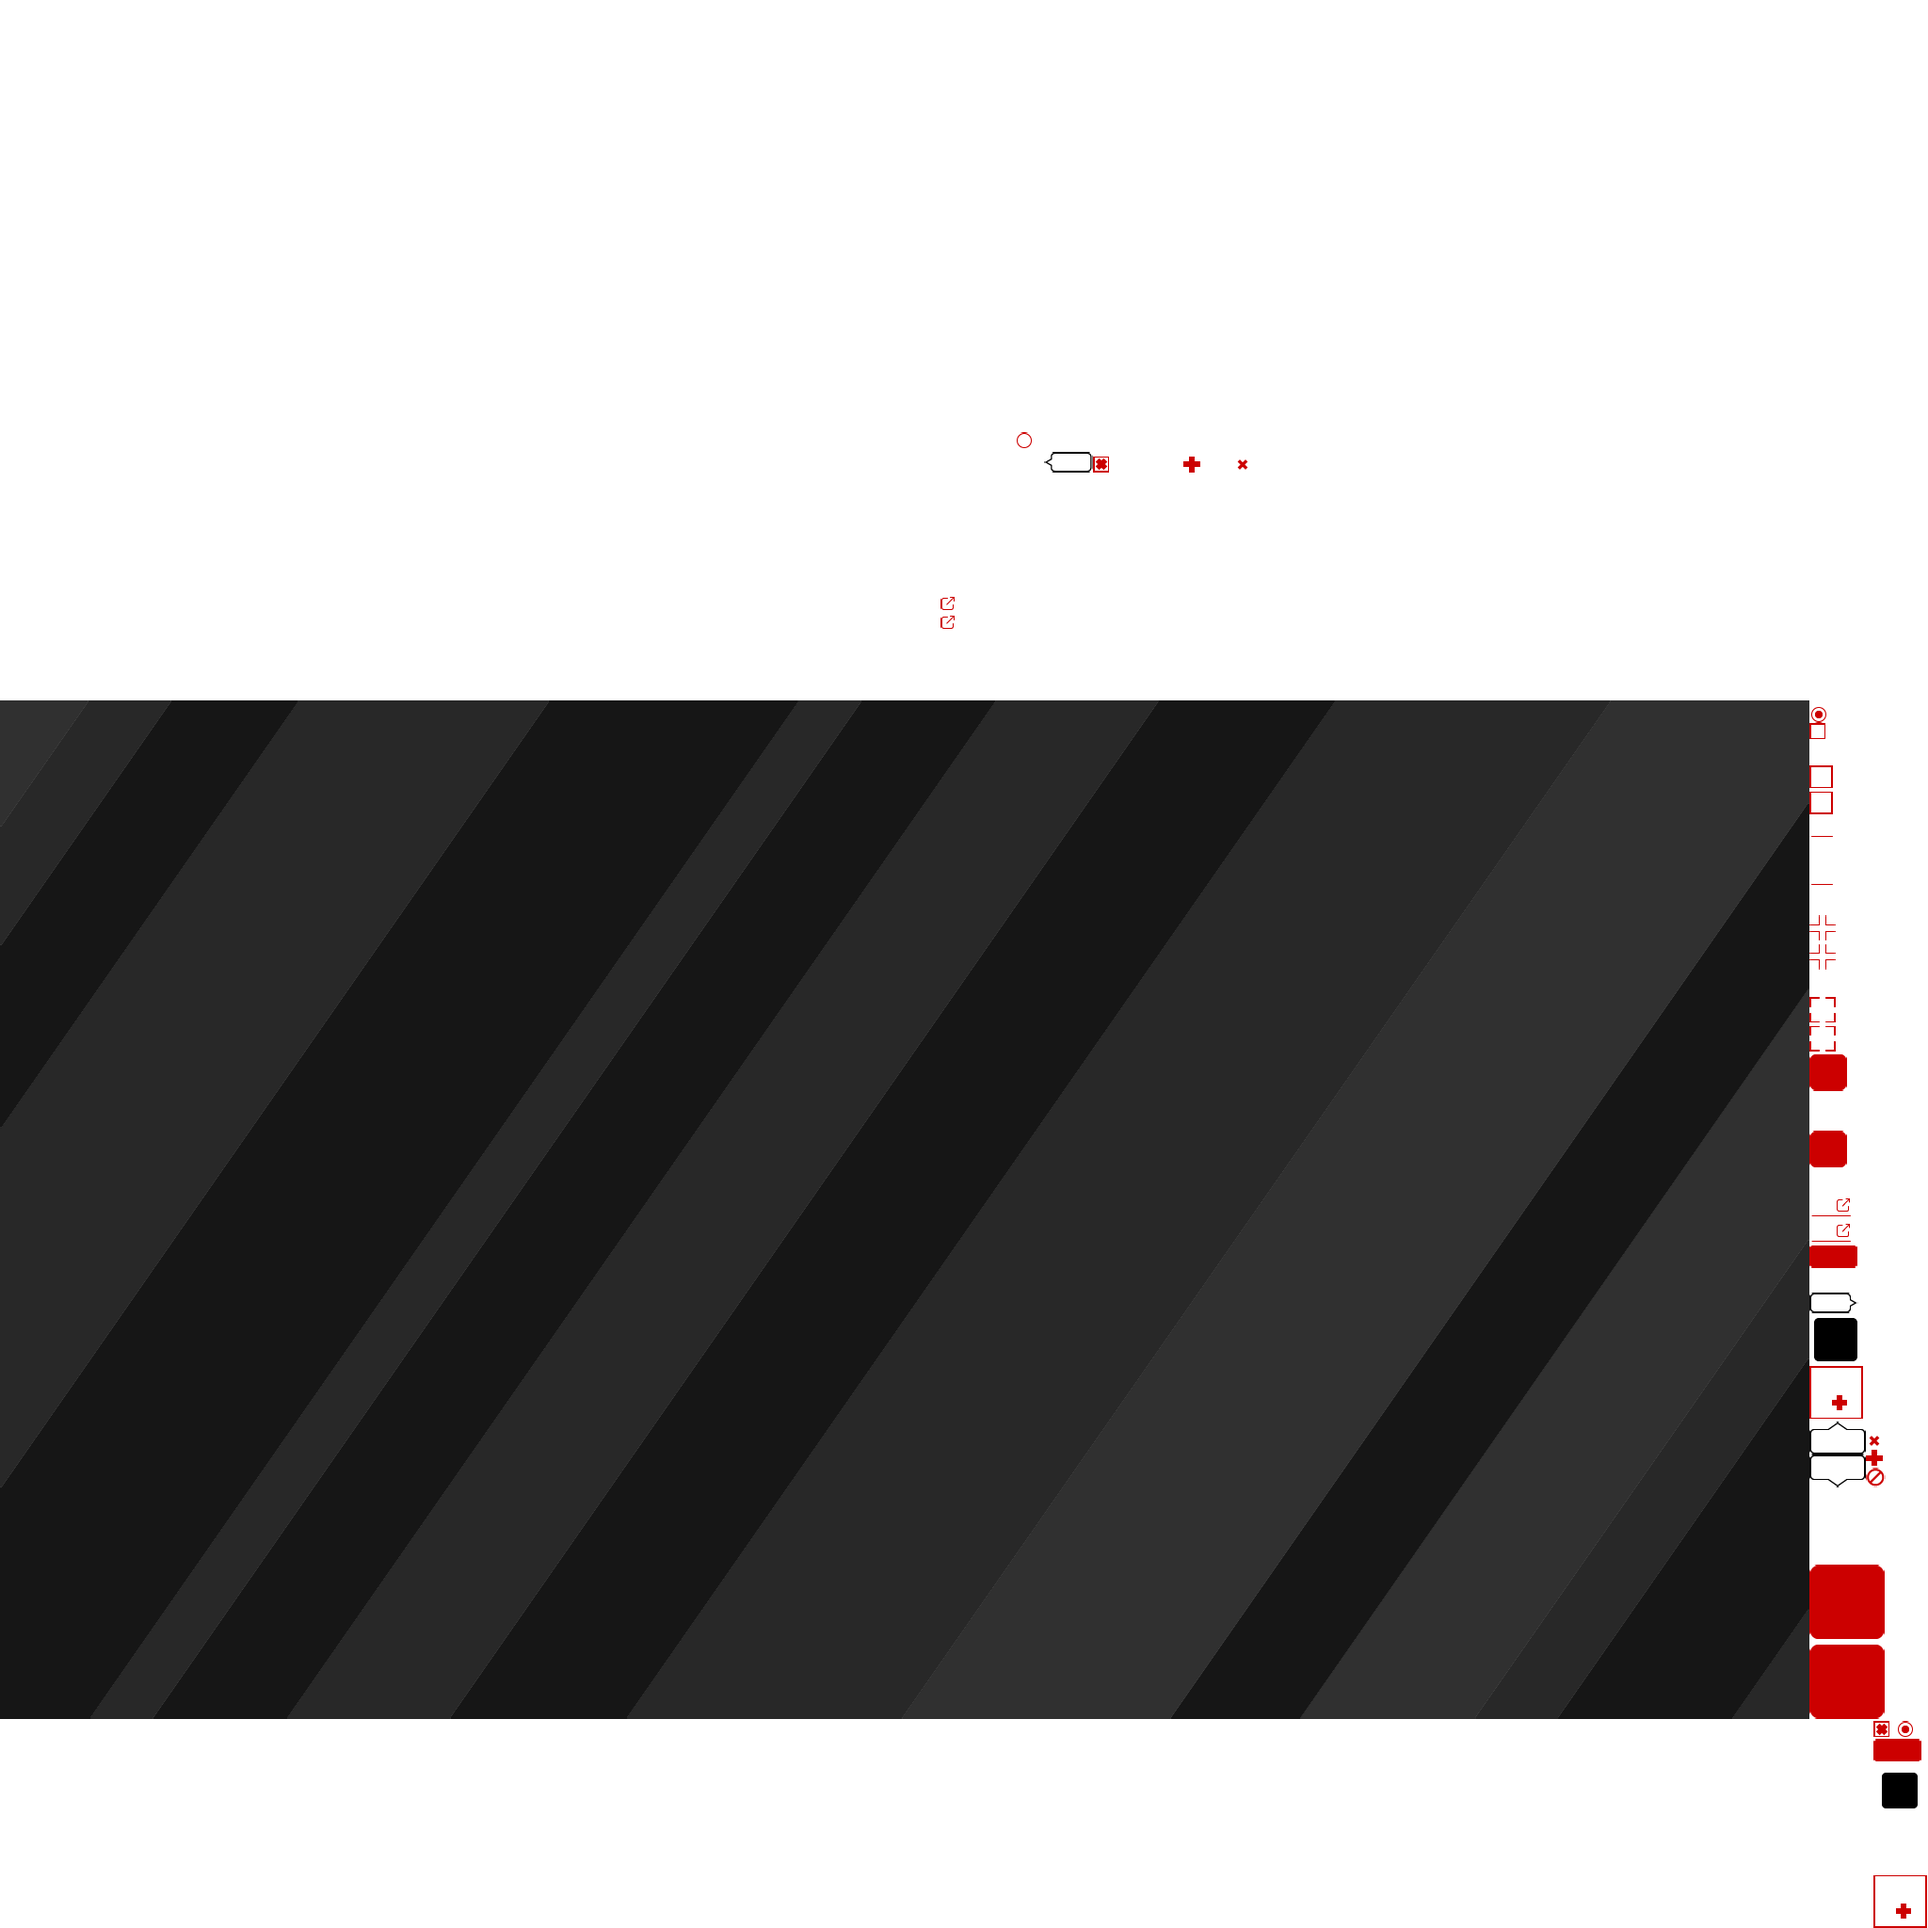
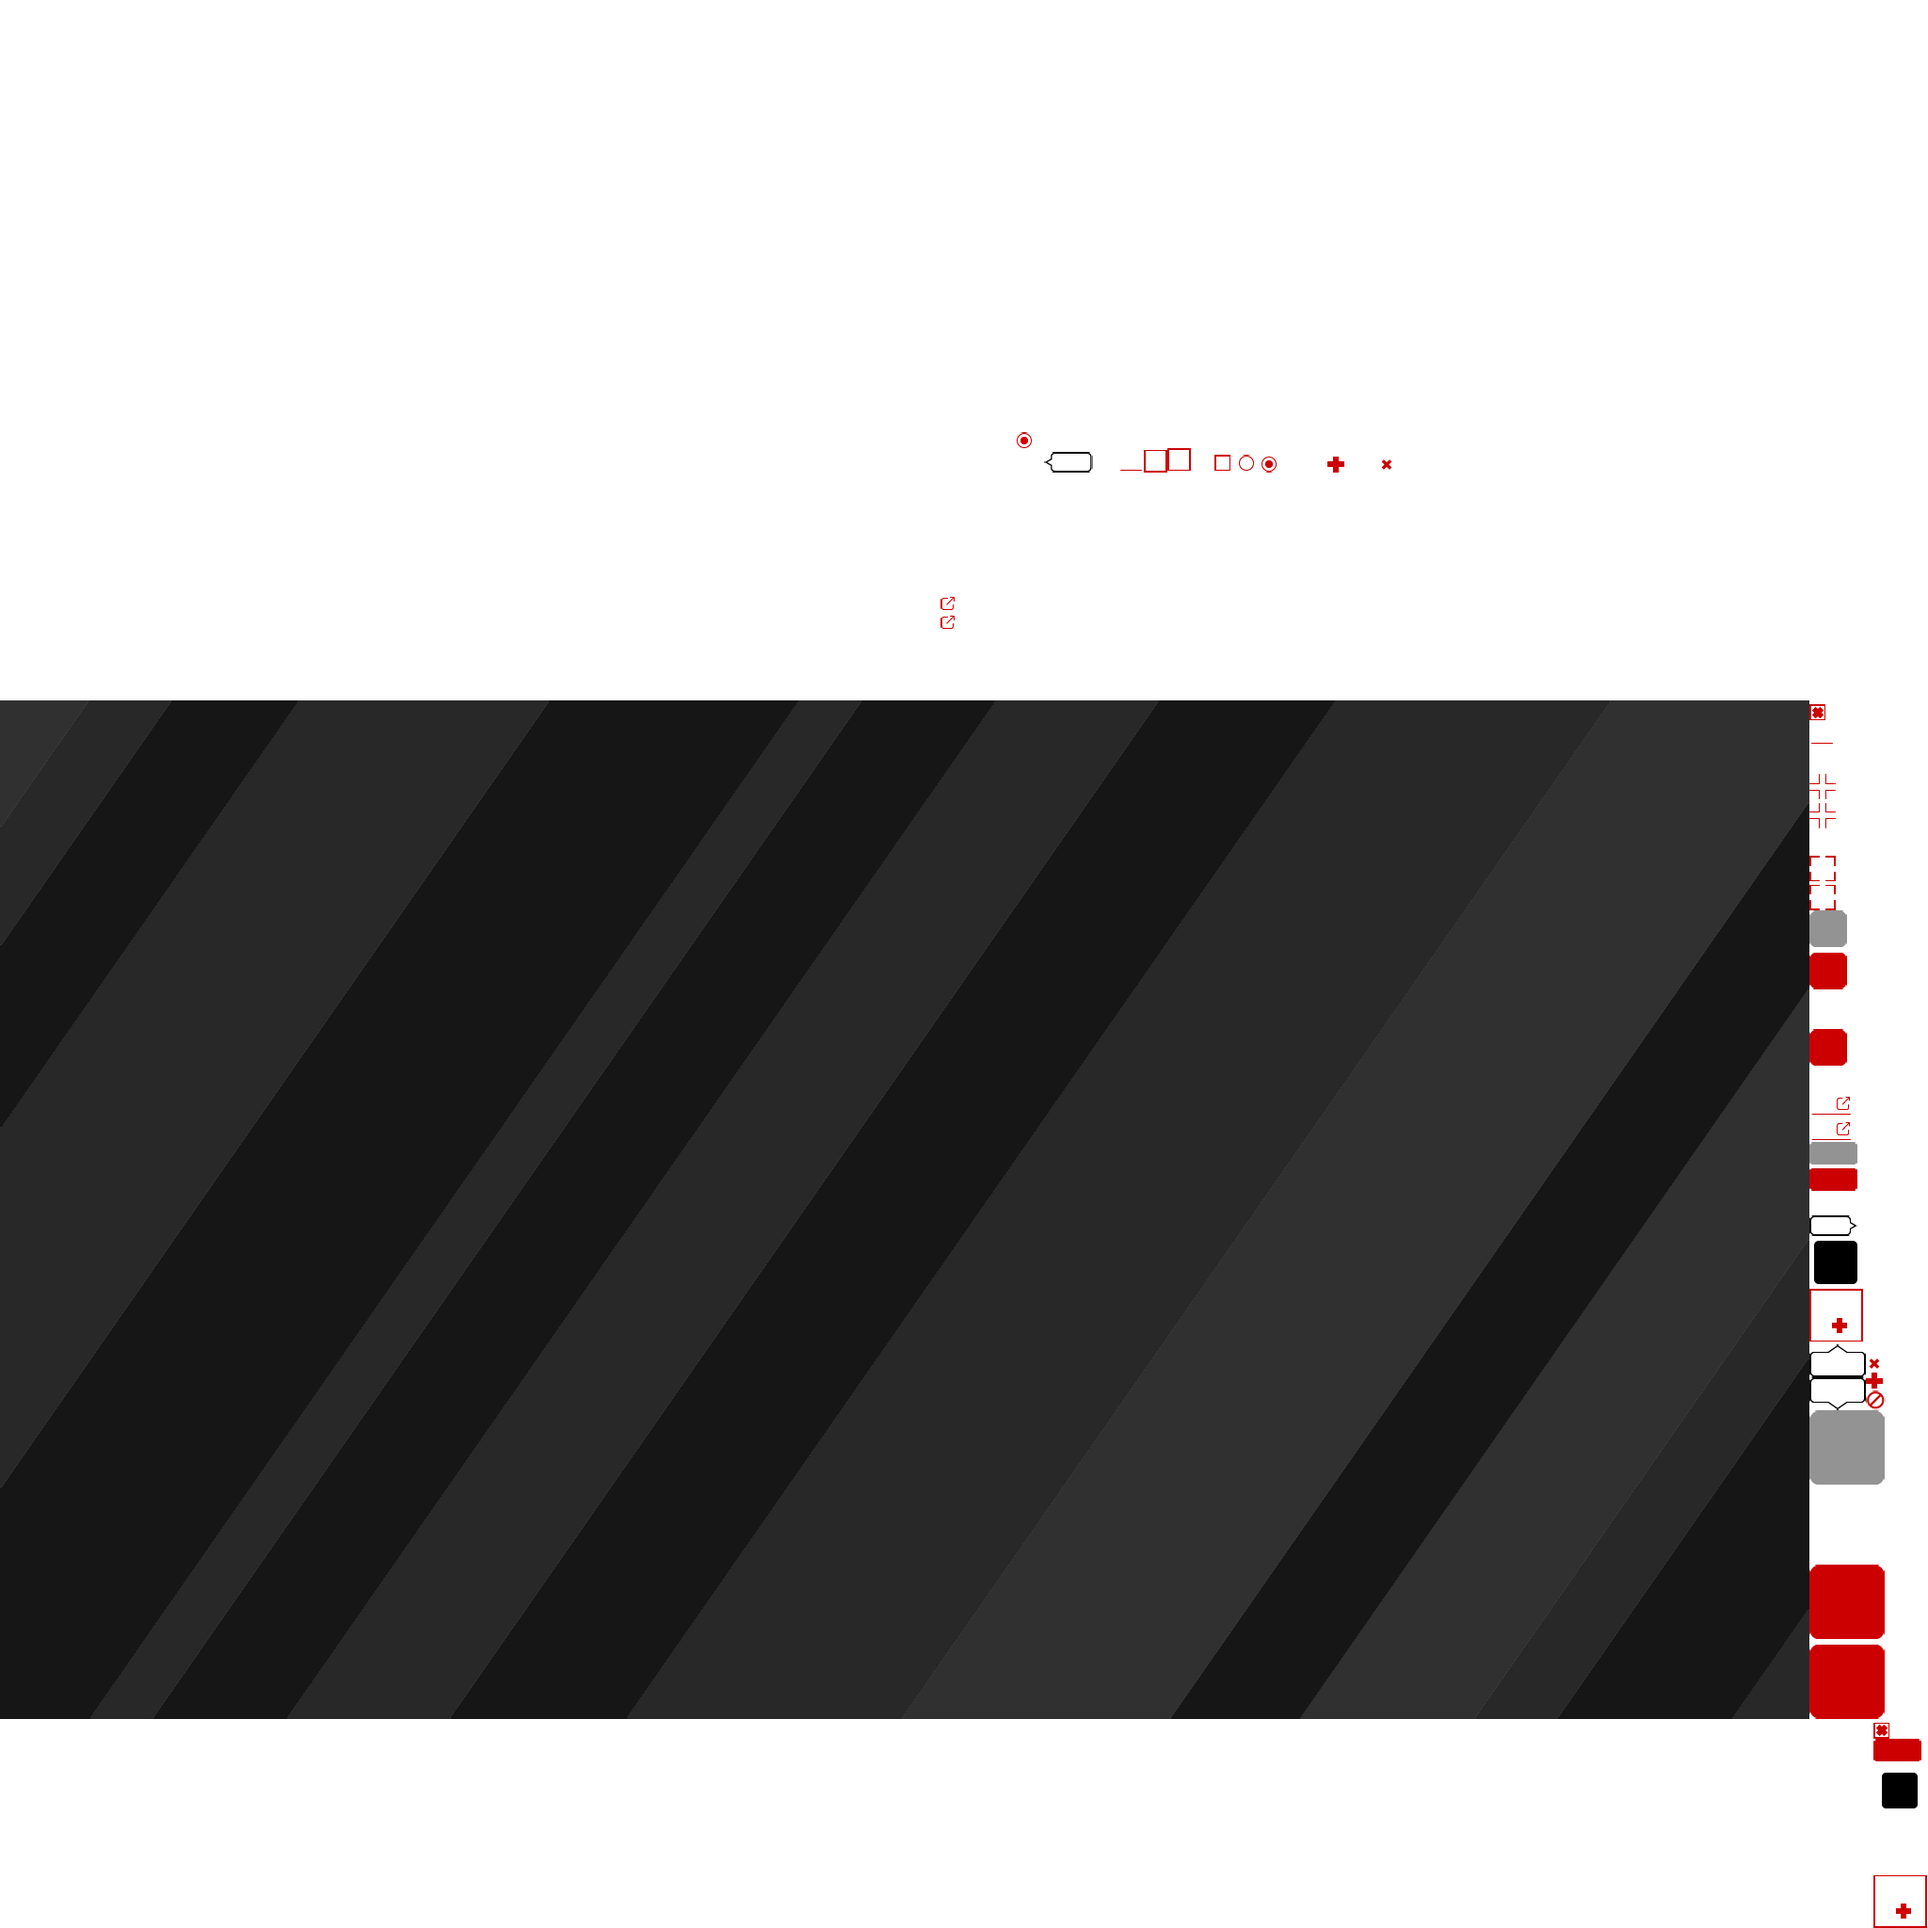
Generate button is disabled if the UserData is not valid.

Changed region(s): [[0.9375, 0.4688, 1.0, 0.7812]]

diff --git a/src/main/java/gdx/liftoff/ui/panels/ProjectPanel.java b/src/main/java/gdx/liftoff/ui/panels/ProjectPanel.java
@@ -9,6 +9,7 @@ import com.badlogic.gdx.utils.Align;
 import com.github.czyzby.kiwi.util.common.Strings;
 import gdx.liftoff.Main;
 import gdx.liftoff.ui.data.UserData;
+import gdx.liftoff.ui.dialogs.FullscreenDialog;
 
 import static gdx.liftoff.Main.*;
 
@@ -26,20 +27,24 @@ public class ProjectPanel extends Table implements Panel {
 
     public void populate(boolean fullscreen) {
         clearChildren();
-        columnDefaults(0).right();
-        columnDefaults(1).growX();
-        defaults().space(SPACE_MEDIUM);
+
+        Table table = new Table();
+        add(table);
+
+        table.columnDefaults(0).right();
+        table.columnDefaults(1).growX();
+        table.defaults().space(SPACE_MEDIUM);
 
         //project label
         Label label = new Label(prop.getProperty("projectName"), skin);
-        add(label);
+        table.add(label);
         addTooltip(label, Align.top, TOOLTIP_WIDTH_LARGE, prop.getProperty("nameTip"));
 
         //project field
         final TextField projectTextField = new TextField("", skin);
         projectTextField.setText(UserData.projectName);
         keyboardActor = projectTextField;
-        add(projectTextField);
+        table.add(projectTextField);
         addIbeamListener(projectTextField);
         addTooltip(projectTextField, label, Align.top, TOOLTIP_WIDTH_LARGE, prop.getProperty("nameTip"));
         onChange(projectTextField, () -> {
@@ -49,15 +54,15 @@ public class ProjectPanel extends Table implements Panel {
         });
 
         //package label
-        row();
+        table.row();
         label = new Label(prop.getProperty("packageName"), skin);
-        add(label);
+        table.add(label);
         addTooltip(label, Align.top, TOOLTIP_WIDTH_LARGE, prop.getProperty("packageTip"));
 
         //package field
         final TextField packageTextField = new TextField("", skin);
         packageTextField.setText(UserData.packageName);
-        add(packageTextField);
+        table.add(packageTextField);
         addIbeamListener(packageTextField);
         addTooltip(packageTextField, label, Align.top, TOOLTIP_WIDTH_LARGE, prop.getProperty("packageTip"));
         onChange(packageTextField, () -> {
@@ -67,15 +72,15 @@ public class ProjectPanel extends Table implements Panel {
         });
 
         //main class label
-        row();
+        table.row();
         label = new Label(prop.getProperty("mainClassName"), skin);
-        add(label);
+        table.add(label);
         addTooltip(label, Align.top, TOOLTIP_WIDTH_LARGE, prop.getProperty("classTip"));
 
         //main class field
         final TextField mainTextField = new TextField("", skin);
         mainTextField.setText(UserData.mainClassName);
-        add(mainTextField);
+        table.add(mainTextField);
         addIbeamListener(mainTextField);
         addTooltip(mainTextField, label, Align.top, TOOLTIP_WIDTH_LARGE, prop.getProperty("classTip"));
         onChange(mainTextField, () -> {
@@ -85,17 +90,17 @@ public class ProjectPanel extends Table implements Panel {
         });
 
         //error label
-        columnDefaults(0).reset();
         row();
         errorLabel = new Label("", skin, "error");
         errorLabel.setEllipsis("...");
-        add(errorLabel).colspan(2).minWidth(0);
+        add(errorLabel).minWidth(0);
         updateError();
 
         ChangeListener changeListener = new ChangeListener() {
             @Override
             public void changed(ChangeEvent event, Actor actor) {
                 updateError();
+                if (FullscreenDialog.fullscreenDialog != null) FullscreenDialog.fullscreenDialog.updateGenerateButton();
             }
         };
         projectTextField.addListener(changeListener);

diff --git a/src/main/java/gdx/liftoff/Main.java b/src/main/java/gdx/liftoff/Main.java
@@ -414,6 +414,57 @@ public class Main extends ApplicationAdapter {
         UserData.gradleTasks = prop.getProperty("gradleTasksDefault");
     }
 
+    public static boolean validateUserData() {
+        if (UserData.projectName.isEmpty()) {
+            return false;
+        }
+
+        if (UserData.packageName.isEmpty()) {
+            return false;
+        }
+
+        if (!isValidPackageName(UserData.packageName)) {
+            return false;
+        }
+
+        if (UserData.mainClassName.isEmpty()) {
+            return false;
+        }
+
+        if (!isValidClassName(UserData.mainClassName)) {
+            return false;
+        }
+
+        if (UserData.projectPath == null) {
+            return false;
+        }
+
+        FileHandle tempFileHandle = Gdx.files.absolute(UserData.projectPath);
+        if (!tempFileHandle.exists() || !tempFileHandle.isDirectory()) {
+            return false;
+        }
+
+        if (tempFileHandle.list().length != 0) {
+            return false;
+        }
+
+        boolean android = UserData.platforms.contains(prop.getProperty("android"), false);
+        if (android && UserData.androidPath == null) {
+            return false;
+        }
+
+        tempFileHandle = Gdx.files.absolute(UserData.androidPath);
+        if (android && (!tempFileHandle.exists() || !tempFileHandle.isDirectory())) {
+            return false;
+        }
+
+        if (android && !Main.isAndroidSdkDirectory(UserData.androidPath)) {
+            return false;
+        }
+
+        return true;
+    }
+
     /**
      * Placeholder for project generation.
      */

diff --git a/src/main/java/gdx/liftoff/ui/dialogs/FullscreenDialog.java b/src/main/java/gdx/liftoff/ui/dialogs/FullscreenDialog.java
@@ -21,6 +21,7 @@ import static gdx.liftoff.Main.*;
  */
 public class FullscreenDialog extends PopTable {
     public static FullscreenDialog fullscreenDialog;
+    private TextButton generateButton;
 
     public FullscreenDialog() {
         super(skin.get("fullscreen", WindowStyle.class));
@@ -53,6 +54,10 @@ public class FullscreenDialog extends PopTable {
         scrollPane.setFlickScroll(false);
         dualCollapsibleGroup.addActor(scrollPane);
         addScrollFocusListener(scrollPane);
+    }
+
+    public void updateGenerateButton() {
+        generateButton.setDisabled(!validateUserData());
     }
 
     private void createPanels(Table contentTable) {
@@ -131,12 +136,12 @@ public class FullscreenDialog extends PopTable {
         //empty cell for equal spacing
         table.add().expandX();
 
-        //todo:disable button if UserData is not valid
         //generate button
-        TextButton textButton = new TextButton(prop.getProperty("generate"), skin, "big");
-        table.add(textButton);
-        addHandListener(textButton);
-        onChange(textButton, () -> hide(sequence(
+        generateButton = new TextButton(prop.getProperty("generate"), skin, "big");
+        updateGenerateButton();
+        table.add(generateButton);
+        addHandListener(generateButton);
+        onChange(generateButton, () -> hide(sequence(
             fadeOut(.3f),
             run(() -> {
                 Main.generateProject();

diff --git a/src/main/java/gdx/liftoff/ui/panels/PathsPanel.java b/src/main/java/gdx/liftoff/ui/panels/PathsPanel.java
@@ -10,6 +10,8 @@ import com.badlogic.gdx.utils.Array;
 import com.kotcrab.vis.ui.widget.file.FileChooserAdapter;
 import gdx.liftoff.Main;
 import gdx.liftoff.ui.data.UserData;
+import gdx.liftoff.ui.dialogs.FullscreenDialog;
+import gdx.liftoff.ui.liftofftables.QuickSettingsTable;
 
 import static gdx.liftoff.Main.*;
 
@@ -49,6 +51,8 @@ public class PathsPanel extends Table implements Panel {
                         projectFieldButton.setText(path);
                         UserData.projectPath = path;
                         updateError();
+                        if (FullscreenDialog.fullscreenDialog != null) FullscreenDialog.fullscreenDialog.updateGenerateButton();
+                        root.quickSettingsTable.populate();
                     }
                 }
             });
@@ -138,11 +142,12 @@ public class PathsPanel extends Table implements Panel {
      * @param text
      */
     private TextButton addField(String text) {
+        //todo:add tooltips
         TextButton browseFieldButton = new TextButton(text, skin, "field");
         browseFieldButton.getLabel().setAlignment(Align.left);
         browseFieldButton.getLabel().setEllipsis("...");
         browseFieldButton.getLabelCell().minWidth(0);
-        add(browseFieldButton).growX().minWidth(100);
+        add(browseFieldButton).growX().minWidth(100).maxWidth(300);
         addHandListener(browseFieldButton);
 
         return browseFieldButton;

diff --git a/src/main/java/gdx/liftoff/ui/liftofftables/QuickSettingsTable.java b/src/main/java/gdx/liftoff/ui/liftofftables/QuickSettingsTable.java
@@ -36,10 +36,10 @@ public class QuickSettingsTable extends LiftoffTable {
         Table table = new Table();
         add(table);
 
-        //todo:disable button if UserData is not valid
         //generate button
         table.defaults().space(SPACE_MEDIUM).fillX();
         TextButton textButton = new TextButton(prop.getProperty("generate"), skin, "big");
+        textButton.setDisabled(!validateUserData());
         table.add(textButton);
         addHandListener(textButton);
         onChange(textButton, () -> {

diff --git a/src/main/java/gdx/liftoff/ui/liftofftables/SettingsTable.java b/src/main/java/gdx/liftoff/ui/liftofftables/SettingsTable.java
@@ -57,9 +57,9 @@ public class SettingsTable extends LiftoffTable {
         //empty space between buttons
         table.add().growX().space(SPACE_SMALL);
 
-        //todo:disable button if UserData is not valid
         //generate button
         textButton = new TextButton(prop.getProperty("generate"), skin);
+        textButton.setDisabled(!validateUserData());
         table.add(textButton).uniformX().fillX();
         addHandListener(textButton);
         onChange(textButton, () -> {

diff --git a/src/main/java/gdx/liftoff/ui/panels/SettingsPanel.java b/src/main/java/gdx/liftoff/ui/panels/SettingsPanel.java
@@ -59,6 +59,7 @@ public class SettingsPanel extends Table implements Panel {
         ImageButton readmeImageButton = addCheck(prop.getProperty("generateReadme"), prop.getProperty("generateReadmeTip"), UserData.addReadme, table);
         onChange(readmeImageButton, () -> UserData.addReadme = readmeImageButton.isChecked());
 
+        //todo:add tooltips
         //add gradle tasks
         row();
         TextButton textButton = new TextButton(prop.getProperty("gradleTasksButton"), skin);
